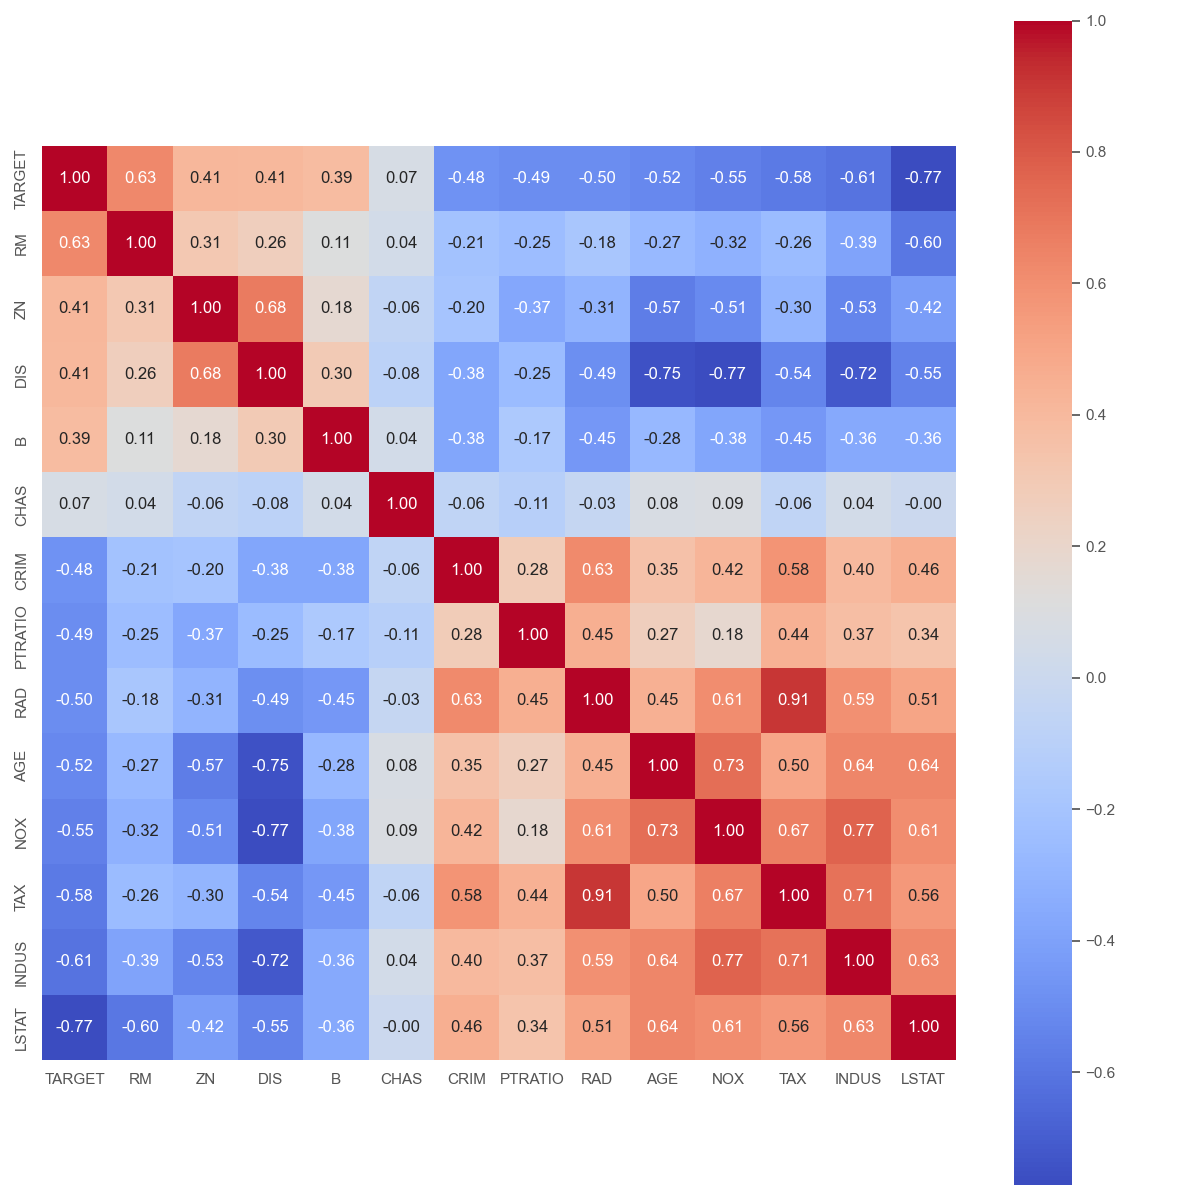
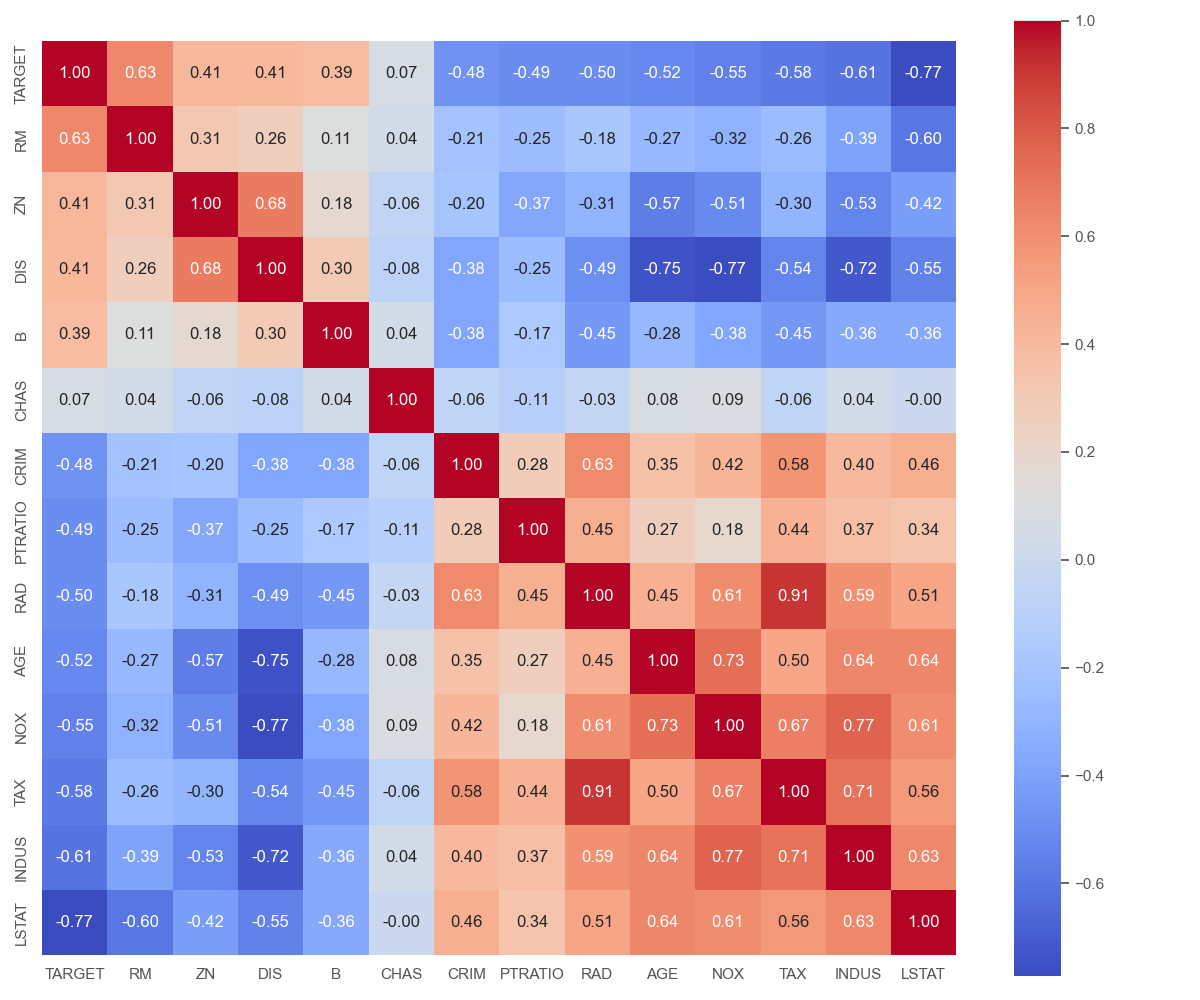
refactor(heatmap): update heatmap figure size

diff --git a/src/shap_app/webapp/components/eda_correlations.py b/src/shap_app/webapp/components/eda_correlations.py
@@ -198,7 +198,7 @@ def generate_heat_map(pearson_corr: pd.DataFrame, fig_name: str = "heat_map") ->
 
     else:
         # Create a new matplotlib figure
-        plt.figure(figsize=(12, 12))
+        plt.figure(figsize=(12, 10))
 
         # Generate the heatmap
         sns.heatmap(
